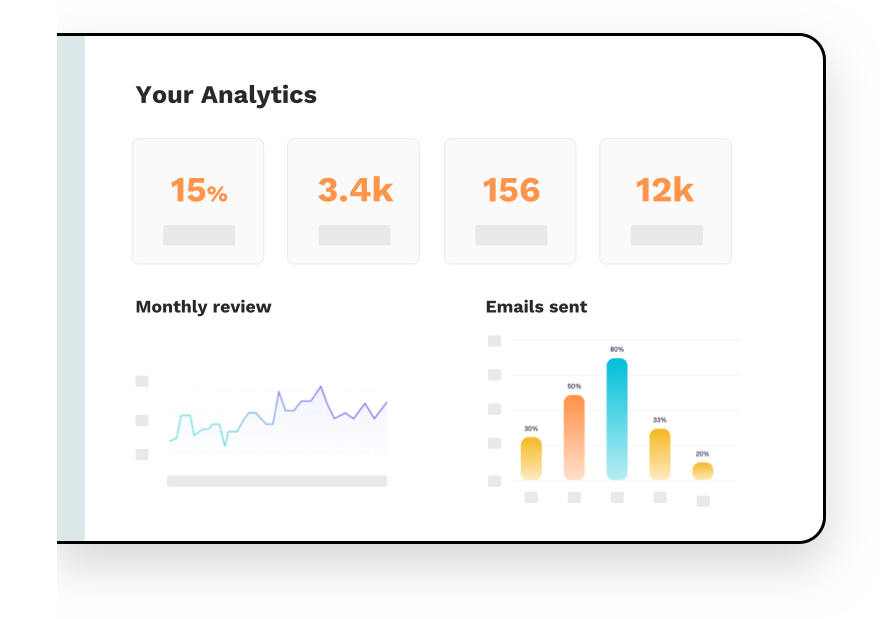
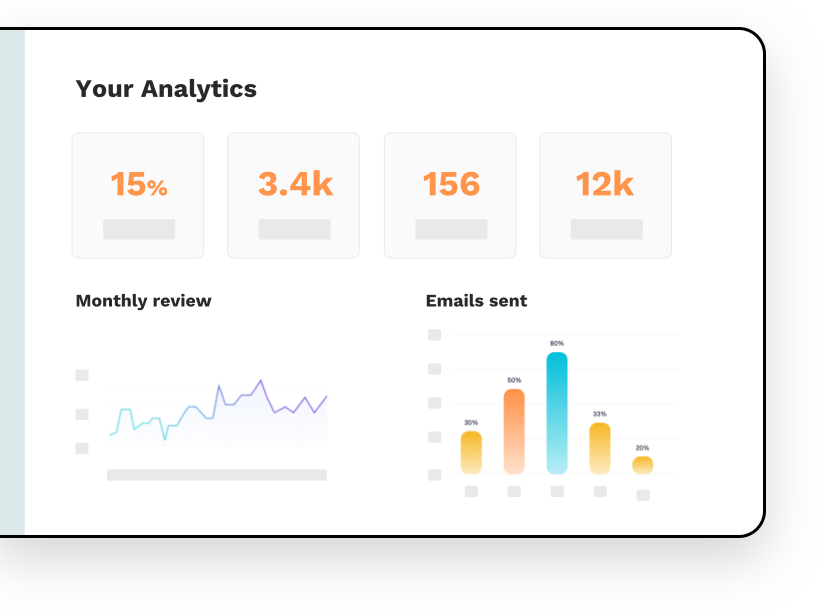
change sass

diff --git a/app/css/app.min.css b/app/css/app.min.css
@@ -1,1 +1,1 @@
-body,figure,h1,h2,h3,h4,h5,h6,li,p,ul{margin:0;padding:0}*{-webkit-box-sizing:border-box;box-sizing:border-box}ul{list-style-type:none}a,a:active,a:focus,a:hover,a:visited{text-decoration:none}html{-webkit-font-smoothing:subpixel-antialiased;-moz-osx-font-smoothing:grayscale;font-size:16px}body{margin-top:80px}button{background:0 0;padding:0}.container{width:95%;max-width:1920px;margin:0 auto}.btn{height:48px;display:-webkit-inline-box;display:-ms-inline-flexbox;display:inline-flex;-webkit-box-align:center;-ms-flex-align:center;align-items:center;-webkit-box-pack:center;-ms-flex-pack:center;justify-content:center;font-weight:600;border-radius:12px;font-family:'Work Sans',sans-serif;border:none}.btn.black{background-color:#292929;color:#fff}.btn.white{background-color:#fff;color:#3f55ff}.btn.blue{background-color:#3d49e9;color:#fff}.btn.default{padding:0 47px}.btn.signup{padding:0 60px}.hide{display:none}.show{display:block}.show-flex{display:-webkit-box;display:-ms-flexbox;display:flex}.d-flex{display:-webkit-box;display:-ms-flexbox;display:flex}.fd-c{-webkit-box-orient:vertical;-webkit-box-direction:normal;-ms-flex-direction:column;flex-direction:column}.jc-c{-webkit-box-pack:center;-ms-flex-pack:center;justify-content:center}.ai-c{-webkit-box-align:center;-ms-flex-align:center;align-items:center}.ws{font-family:'Work Sans',sans-serif}.geo{font-family:Georgia,Times,"Times New Roman",serif}.fz60{font-size:60px}.fz50{font-size:50px}.fz45{font-size:45px}.fz36{font-size:36px}.fz37{font-size:37px}.fz32{font-size:32px}.fz24{font-size:24px}.fz20{font-size:20px}.fz18{font-size:18px}.fz16{font-size:16px}.fz15{font-size:15px}.fz14{font-size:14px}.fz12{font-size:12px}.fw300{font-weight:300}.fw500{font-weight:500}.fw600{font-weight:600}.fwb{font-weight:700}.c-white{color:#fff}.c-black{color:#000}.c-black100{color:#292929}.c-gray{color:#fafafa}.c-gray100{color:#888}.c-gray200{color:#ccc}.c-blue100{color:#3f55ff}.c-blue200{color:#3c49e8}.c-blue300{color:#ebeefe}.c-blue400{color:#3d49e9}.bg-white{background-color:#fff}.bg-black{background-color:#000}.bg-black100{background-color:#292929}.bg-gray{background-color:#fafafa}.bg-gray100{background-color:#888}.bg-gray200{background-color:#ccc}.bg-gray300{background-color:#f2f6fd}.bg-blue100{background-color:#3f55ff}.bg-blue200{background-color:#3c49e8}.bg-blue300{background-color:#ebeefe}.header{position:fixed;top:0;left:0;z-index:10;width:100%;-webkit-transition:all .2s ease;-o-transition:all .2s ease;transition:all .2s ease}.header.with-bg{background-color:#fff;-webkit-box-shadow:0 2px 5px 0 rgba(0,0,0,.1);box-shadow:0 2px 5px 0 rgba(0,0,0,.1)}.header .header-container{display:-webkit-box;display:-ms-flexbox;display:flex;-webkit-box-align:center;-ms-flex-align:center;align-items:center;padding:0 60px;height:100px;margin:0 auto}.header .header-nav{text-align:center;margin-left:auto}.header .header-nav .nav-ul{display:-webkit-box;display:-ms-flexbox;display:flex}.header .header-nav .nav-li{text-transform:uppercase;margin-right:50px;cursor:pointer}.header .mobile-login,.header .mobile-nav{display:none}.header .mobile-nav{text-transform:uppercase}.header .header-login{border-left:1px solid #ccc}.header .header-login .login{padding:0 73px 0 50px}.header .burger{border:none;display:none}.header .burger div{border:none;height:1px;width:18px;margin:5px;background-color:#292929}.header .closed{display:none}.header .mobile-menu{display:none}@media screen and (max-width:1100px){.header .header-container{height:80px;padding:0 24px 0 16px}.header .header-nav{display:none}.header .header-login{display:none}.header .mobile-login,.header .mobile-nav{display:block}.header .mobile-login{margin-left:24px}.header .mobile-nav{margin-left:auto}.header .burger{display:block;margin-right:16px}.mobile-menu{height:100vh;overflow:hideen;width:100%;background-image:-webkit-gradient(linear,left top,left bottom,from(#bc85ff),color-stop(#a574fe),color-stop(#8964fe),color-stop(#6456fe),to(#1f49ff));background-image:-o-linear-gradient(top,#bc85ff,#a574fe,#8964fe,#6456fe,#1f49ff);background-image:linear-gradient(to bottom,#bc85ff,#a574fe,#8964fe,#6456fe,#1f49ff);position:fixed;top:0;left:0}.mobile-menu .mobile-menu-wrapper{text-align:center;padding:105px 0 140px 0}.mobile-menu .mobile-li-open:not(:last-child){margin-bottom:51px}.mobile-menu .mobile-login-open{display:-webkit-box;display:-ms-flexbox;display:flex;-webkit-box-orient:vertical;-webkit-box-direction:normal;-ms-flex-direction:column;flex-direction:column;-webkit-box-align:center;-ms-flex-align:center;align-items:center}.mobile-menu .signup{width:100%;max-width:300px;margin-bottom:14px;margin-top:140px}.mobile-menu .mobile-close{display:-webkit-box;display:-ms-flexbox;display:flex;-webkit-box-align:center;-ms-flex-align:center;align-items:center;height:80px;padding:0 0 0 21px}.mobile-menu .mobile-button-close{font-size:22px;margin-right:21px}}.footer{width:100%;padding:30px 0 80px 0}.footer .container{width:90%;margin:0 auto}.footer .footer-top{display:-webkit-box;display:-ms-flexbox;display:flex;-webkit-box-pack:justify;-ms-flex-pack:justify;justify-content:space-between;padding:0 0 68px 0}.footer .footer-top .footer-left-content{max-width:505px}.footer .footer-top .footer-descr{padding:30px 0 39px 0}.footer .footer-top .address{font-style:normal}.footer .footer-top .footer-nav-ul{display:-webkit-box;display:-ms-flexbox;display:flex;-webkit-box-pack:end;-ms-flex-pack:end;justify-content:flex-end;-webkit-box-align:center;-ms-flex-align:center;align-items:center;margin-bottom:30px;gap:30px;min-height:42px}.footer .footer-top .reviews-wrapper{display:-webkit-box;display:-ms-flexbox;display:flex;-webkit-box-align:center;-ms-flex-align:center;align-items:center;-webkit-box-pack:end;-ms-flex-pack:end;justify-content:flex-end}.footer .footer-top .reviews-p{padding-right:8px}.footer .footer-top .reviews-ul{display:-webkit-box;display:-ms-flexbox;display:flex;-webkit-box-pack:end;-ms-flex-pack:end;justify-content:flex-end;-webkit-box-align:center;-ms-flex-align:center;align-items:center;gap:20px}.footer .footer-top .reviews-logo{height:24px}.footer .footer-bottom{display:-webkit-box;display:-ms-flexbox;display:flex;-webkit-box-pack:justify;-ms-flex-pack:justify;justify-content:space-between;-webkit-box-align:center;-ms-flex-align:center;align-items:center}.footer .footer-bottom .terms-social-wrapper{display:-webkit-box;display:-ms-flexbox;display:flex;-webkit-box-align:center;-ms-flex-align:center;align-items:center}.footer .footer-bottom .social-ul{display:-webkit-box;display:-ms-flexbox;display:flex;-webkit-box-align:center;-ms-flex-align:center;align-items:center;gap:40px}.footer .footer-bottom .social-li{cursor:pointer}@media screen and (max-width:1440px){.footer .footer-top .footer-descr{padding:30px 0 25px 0}.footer .footer-bottom .terms-social-wrapper{gap:20px}}@media screen and (max-width:1100px){.footer .footer-top{-webkit-box-orient:vertical;-webkit-box-direction:normal;-ms-flex-direction:column;flex-direction:column;-webkit-box-align:center;-ms-flex-align:center;align-items:center;padding-bottom:0}.footer .footer-top .footer-left-content{width:100%}.footer .footer-top .footer-descr{padding:17px 0 27px 0}.footer .footer-top .footer-right-content{width:100%;padding:55px 0 0 0}.footer .footer-top .footer-right-content .footer-nav-ul{-webkit-box-pack:center;-ms-flex-pack:center;justify-content:center;margin-bottom:0}.footer .footer-top .footer-right-content .footer-nav-li:first-child{margin-left:0}.footer .footer-top .footer-right-content .reviews-wrapper{-webkit-box-orient:vertical;-webkit-box-direction:normal;-ms-flex-direction:column;flex-direction:column;margin-top:60px}.footer .footer-top .footer-right-content .reviews-p{width:100%;text-align:center;margin:0;margin-bottom:22px}.footer .footer-top .footer-right-content .reviews-ul{-ms-flex-wrap:wrap;flex-wrap:wrap;-webkit-box-pack:center;-ms-flex-pack:center;justify-content:center;padding:0 0 60px 0}.footer .footer-bottom{-webkit-box-orient:vertical;-webkit-box-direction:reverse;-ms-flex-direction:column-reverse;flex-direction:column-reverse;padding-bottom:22px}.footer .footer-bottom .terms-social-wrapper{-webkit-box-orient:vertical;-webkit-box-direction:reverse;-ms-flex-direction:column-reverse;flex-direction:column-reverse}.footer .footer-bottom .social-links{text-align:center}.footer .footer-bottom .social-ul{margin-bottom:43px}}.pricing{padding:37px 0 150px 0}.pricing .container{text-align:center;margin:0 auto}.pricing .pricing-title{margin-bottom:11px}.pricing .enter-term{display:-webkit-box;display:-ms-flexbox;display:flex;-webkit-box-pack:center;-ms-flex-pack:center;justify-content:center;-webkit-box-align:center;-ms-flex-align:center;align-items:center;margin:0 auto;padding:73px 0 50px 0;gap:30px}.pricing .enter-term .switcher{width:96px;height:50px;border-radius:25px;border:none;padding:0 4px;background-image:-webkit-gradient(linear,right top,left bottom,from(#bc85ff),color-stop(#a574fe),color-stop(#8964fe),color-stop(#6456fe),to(#1f49ff));background-image:-o-linear-gradient(right top,#bc85ff,#a574fe,#8964fe,#6456fe,#1f49ff);background-image:linear-gradient(to left bottom,#bc85ff,#a574fe,#8964fe,#6456fe,#1f49ff)}.pricing .enter-term .switcher.active .circle{-webkit-transform:translateX(28px);-ms-transform:translateX(28px);transform:translateX(28px)}.pricing .enter-term .circle{width:38px;height:38px;border-radius:50%;background-color:#fff;-webkit-transition:all .2s linear;-o-transition:all .2s linear;transition:all .2s linear}.pricing .enter-term .monthly{display:-webkit-box;display:-ms-flexbox;display:flex;-webkit-box-pack:end;-ms-flex-pack:end;justify-content:flex-end;-webkit-box-align:center;-ms-flex-align:center;align-items:center}.pricing .enter-term .monthly .term{margin-right:31px}.pricing .enter-term .yearly{display:-webkit-box;display:-ms-flexbox;display:flex;-webkit-box-pack:start;-ms-flex-pack:start;justify-content:flex-start;-webkit-box-align:center;-ms-flex-align:center;align-items:center}.pricing .enter-term .yearly .term{margin-right:19px}.pricing .enter-term .sale{padding:15px}.pricing .pricing-cards .container{display:-webkit-box;display:-ms-flexbox;display:flex;-webkit-box-pack:center;-ms-flex-pack:center;justify-content:center;gap:29px}.pricing .pricing-cards .pricing-card{width:32%;max-width:372px;border-radius:24px;padding:50px 0 45px 0}.pricing .pricing-cards .with-bg{background-image:-webkit-gradient(linear,right top,left bottom,from(#bc85ff),color-stop(#a574fe),color-stop(#8964fe),color-stop(#6456fe),to(#1f49ff));background-image:-o-linear-gradient(right top,#bc85ff,#a574fe,#8964fe,#6456fe,#1f49ff);background-image:linear-gradient(to left bottom,#bc85ff,#a574fe,#8964fe,#6456fe,#1f49ff)}.pricing .pricing-cards .with-bg .card-descr,.pricing .pricing-cards .with-bg .card-price,.pricing .pricing-cards .with-bg .card-subtitle,.pricing .pricing-cards .with-bg .card-title{color:#fff}.pricing .pricing-cards .with-bg .card-free-btn{color:#3d49e9;background-color:#fff;cursor:pointer}.pricing .pricing-cards .card-free-btn{width:100%;max-width:252px;line-height:1.2;cursor:pointer;margin-bottom:33px}.pricing .pricing-cards .card-descr{margin:0 auto;line-height:1.6;width:200px}.pricing .pricing-cards .line-height-19{line-height:1.2;margin-bottom:30px}.pricing .pricing-cards .line-through{text-decoration:line-through}.pricing .pricing-cards .card-price{padding:16px 0 32px 0}.pricing .pricing-cards .card-subtitle{padding-bottom:14px}.sign-up{padding-bottom:301px;width:100%}.sign-up .sign-up-title{text-align:center;margin-bottom:35px}.sign-up .sign-up-subtitle{text-align:center;margin-bottom:28px}.sign-up .container{margin:0 auto;max-width:1276px}.sign-up .input-btn-wrapper{width:100%;max-width:372px;margin:0 auto}.sign-up .email-input{width:100%;display:block;border:1px solid #ccc;margin:0 auto;padding:0 16px}.sign-up .email-input::-webkit-input-placeholder{font-size:16px;color:#888;font-weight:400}.sign-up .email-input::-moz-placeholder{font-size:16px;color:#888;font-weight:400}.sign-up .email-input:-ms-input-placeholder{font-size:16px;color:#888;font-weight:400}.sign-up .email-input::-ms-input-placeholder{font-size:16px;color:#888;font-weight:400}.sign-up .email-input::placeholder{font-size:16px;color:#888;font-weight:400}.sign-up .btn{width:100%;margin-top:16px}@media screen and (max-width:1440px){.pricing{padding:58px 0 223px 0}.pricing .pricing-title{font-size:36px;margin-bottom:16px}.pricing .pricing-subtitle{font-size:18px;font-weight:300}.pricing .enter-term{padding:83px 0 62px 0;gap:35px}.pricing .enter-term .switcher{width:56px;height:28px}.pricing .enter-term .circle{width:22px;height:22px}.pricing .monthly .term{margin-right:35px}.sign-up{padding-bottom:173px}.sign-up .sign-up-title{font-size:36px;margin-bottom:43px}.sign-up .sign-up-subtitle{font-size:18px}}@media screen and (max-width:992px){.pricing{padding:47px 0 117px 0}.container{width:100%;padding:0 24px}.container .pricing-title{font-size:30px;margin-bottom:33px}.container .pricing-subtitle{font-size:16px}.container .enter-term{-webkit-box-align:baseline;-ms-flex-align:baseline;align-items:baseline;padding:40px 0 30px 0;gap:24px}.container .enter-term .switcher{width:96px;height:50px}.container .enter-term .circle{width:38px;height:38px}.container .enter-term .monthly .term{margin-right:24px}.container .enter-term .yearly{-webkit-box-orient:vertical;-webkit-box-direction:normal;-ms-flex-direction:column;flex-direction:column}.container .enter-term .yearly .term{margin:0 0 16px 0}.container .pricing-cards .container{width:100%;display:-webkit-box;display:-ms-flexbox;display:flex;-webkit-box-align:center;-ms-flex-align:center;align-items:center;-webkit-box-orient:vertical;-webkit-box-direction:normal;-ms-flex-direction:column;flex-direction:column;gap:24px}.container .pricing-cards .container .pricing-card{width:100%;width:327px;padding:45px 0 32px 0}.container .pricing-cards .container .pricing-card .card-free-btn{max-width:221px}.sign-up{padding-bottom:80px}.sign-up .sign-up-title{font-size:30px;margin-bottom:35px}.sign-up .sign-up-subtitle{font-size:16px}.sign-up .input-btn-wrapper{max-width:300px}}.products{padding:48px 0 18px 0;width:100%}.products .container{margin:0 auto;text-align:center;max-width:828px}.products .products-title{margin-bottom:27px}.analytics{padding:98px 0;display:-webkit-box;display:-ms-flexbox;display:flex;-webkit-box-pack:start;-ms-flex-pack:start;justify-content:flex-start;-webkit-box-align:center;-ms-flex-align:center;align-items:center}.analytics .success{margin-left:220px;max-width:611px}.analytics .success-reports{padding:31px 0 36px 0}.analytics .success-reports .success-report:not(:last-child){margin-bottom:32px}.analytics .success-report{position:relative;padding-left:28px}.analytics .success-report:before{content:url(../../images/icon-done.svg);display:inline-block;position:absolute;top:2px;left:0}.product-sign-up{padding:100px 0 150px 0}.product-sign-up .sign-up-card{text-align:center;padding:68px 0 62px 0;background-image:-webkit-gradient(linear,right top,left top,from(#bc85ff),color-stop(#a574fe),color-stop(#8964fe),color-stop(#6456fe),to(#1f49ff));background-image:-o-linear-gradient(right,#bc85ff,#a574fe,#8964fe,#6456fe,#1f49ff);background-image:linear-gradient(to left,#bc85ff,#a574fe,#8964fe,#6456fe,#1f49ff);margin:0 auto;max-width:1172px;border-radius:24px}.product-sign-up .sign-up-title{max-width:792px;margin:0 auto}.product-sign-up .product-start-free{margin-top:42px}@media screen and (max-width:1600px){.products{padding:58px 0 34px 0}.products .products-title{font-size:36px}.products .products-subtitle{font-size:18px}.analytics{padding:110px 0 130px 0}.analytics .success{max-width:500px;margin-left:100px}.analytics .success .success-title{font-size:36px}.analytics .success .success-descr{font-size:18px}.analytics .analytics-review{max-width:612px}}@media screen and (max-width:1190px){.products{padding:47px 0 44px 0}.products .products-title{font-size:30px;margin-bottom:33px}.products .products-subtitle{font-size:16px}.analytics{padding:40px 0 65px 0;-webkit-box-orient:vertical;-webkit-box-direction:normal;-ms-flex-direction:column;flex-direction:column;-webkit-box-align:start;-ms-flex-align:start;align-items:flex-start}.analytics .analytics-review{margin-bottom:22px;width:95%}.analytics .success{margin:0 auto;padding:0 27px 0 27px}.analytics .success-title{font-size:30px}.analytics .success-report{font-size:20px}.analytics .success-descr{font-size:16px}.product-sign-up{padding:36px 0 80px 0}.product-sign-up .sign-up-title{font-size:24px}}
+body,figure,h1,h2,h3,h4,h5,h6,li,p,ul{margin:0;padding:0}*{-webkit-box-sizing:border-box;box-sizing:border-box}ul{list-style-type:none}a,a:active,a:focus,a:hover,a:visited{text-decoration:none}html{-webkit-font-smoothing:subpixel-antialiased;-moz-osx-font-smoothing:grayscale;font-size:16px}body{margin-top:80px}button{background:0 0;padding:0}.container{width:95%;max-width:1920px;margin:0 auto}.btn{height:48px;display:-webkit-inline-box;display:-ms-inline-flexbox;display:inline-flex;-webkit-box-align:center;-ms-flex-align:center;align-items:center;-webkit-box-pack:center;-ms-flex-pack:center;justify-content:center;font-weight:600;border-radius:12px;font-family:'Work Sans',sans-serif;border:none}.btn.black{background-color:#292929;color:#fff}.btn.white{background-color:#fff;color:#3f55ff}.btn.blue{background-color:#3d49e9;color:#fff}.btn.default{padding:0 47px}.btn.signup{padding:0 60px}.hide{display:none}.show{display:block}.show-flex{display:-webkit-box;display:-ms-flexbox;display:flex}.d-flex{display:-webkit-box;display:-ms-flexbox;display:flex}.fd-c{-webkit-box-orient:vertical;-webkit-box-direction:normal;-ms-flex-direction:column;flex-direction:column}.jc-c{-webkit-box-pack:center;-ms-flex-pack:center;justify-content:center}.ai-c{-webkit-box-align:center;-ms-flex-align:center;align-items:center}.ws{font-family:'Work Sans',sans-serif}.geo{font-family:Georgia,Times,"Times New Roman",serif}.fz60{font-size:60px}.fz50{font-size:50px}.fz45{font-size:45px}.fz36{font-size:36px}.fz37{font-size:37px}.fz32{font-size:32px}.fz24{font-size:24px}.fz20{font-size:20px}.fz18{font-size:18px}.fz16{font-size:16px}.fz15{font-size:15px}.fz14{font-size:14px}.fz12{font-size:12px}.fw300{font-weight:300}.fw500{font-weight:500}.fw600{font-weight:600}.fwb{font-weight:700}.c-white{color:#fff}.c-black{color:#000}.c-black100{color:#292929}.c-gray{color:#fafafa}.c-gray100{color:#888}.c-gray200{color:#ccc}.c-blue100{color:#3f55ff}.c-blue200{color:#3c49e8}.c-blue300{color:#ebeefe}.c-blue400{color:#3d49e9}.bg-white{background-color:#fff}.bg-black{background-color:#000}.bg-black100{background-color:#292929}.bg-gray{background-color:#fafafa}.bg-gray100{background-color:#888}.bg-gray200{background-color:#ccc}.bg-gray300{background-color:#f2f6fd}.bg-blue100{background-color:#3f55ff}.bg-blue200{background-color:#3c49e8}.bg-blue300{background-color:#ebeefe}.header{position:fixed;top:0;left:0;z-index:10;width:100%;-webkit-transition:all .2s ease;-o-transition:all .2s ease;transition:all .2s ease}.header.with-bg{background-color:#fff;-webkit-box-shadow:0 2px 5px 0 rgba(0,0,0,.1);box-shadow:0 2px 5px 0 rgba(0,0,0,.1)}.header .header-container{display:-webkit-box;display:-ms-flexbox;display:flex;-webkit-box-align:center;-ms-flex-align:center;align-items:center;padding:0 60px;height:100px;margin:0 auto}.header .header-nav{text-align:center;margin-left:auto}.header .header-nav .nav-ul{display:-webkit-box;display:-ms-flexbox;display:flex}.header .header-nav .nav-li{text-transform:uppercase;margin-right:50px;cursor:pointer}.header .mobile-login,.header .mobile-nav{display:none}.header .mobile-nav{text-transform:uppercase}.header .header-login{border-left:1px solid #ccc}.header .header-login .login{padding:0 73px 0 50px}.header .burger{border:none;display:none}.header .burger div{border:none;height:1px;width:18px;margin:5px;background-color:#292929}.header .closed{display:none}.header .mobile-menu{display:none}@media screen and (max-width:1100px){.header .header-container{height:80px;padding:0 24px 0 16px}.header .header-nav{display:none}.header .header-login{display:none}.header .mobile-login,.header .mobile-nav{display:block}.header .mobile-login{margin-left:24px}.header .mobile-nav{margin-left:auto}.header .burger{display:block;margin-right:16px}.mobile-menu{height:100vh;overflow:hideen;width:100%;background-image:-webkit-gradient(linear,left top,left bottom,from(#bc85ff),color-stop(#a574fe),color-stop(#8964fe),color-stop(#6456fe),to(#1f49ff));background-image:-o-linear-gradient(top,#bc85ff,#a574fe,#8964fe,#6456fe,#1f49ff);background-image:linear-gradient(to bottom,#bc85ff,#a574fe,#8964fe,#6456fe,#1f49ff);position:fixed;top:0;left:0}.mobile-menu .mobile-menu-wrapper{text-align:center;padding:105px 0 140px 0}.mobile-menu .mobile-li-open:not(:last-child){margin-bottom:51px}.mobile-menu .mobile-login-open{display:-webkit-box;display:-ms-flexbox;display:flex;-webkit-box-orient:vertical;-webkit-box-direction:normal;-ms-flex-direction:column;flex-direction:column;-webkit-box-align:center;-ms-flex-align:center;align-items:center}.mobile-menu .signup{width:100%;max-width:300px;margin-bottom:14px;margin-top:140px}.mobile-menu .mobile-close{display:-webkit-box;display:-ms-flexbox;display:flex;-webkit-box-align:center;-ms-flex-align:center;align-items:center;height:80px;padding:0 0 0 21px}.mobile-menu .mobile-button-close{font-size:22px;margin-right:21px}}.footer{width:100%;padding:30px 0 80px 0}.footer .container{width:90%;margin:0 auto}.footer .footer-top{display:-webkit-box;display:-ms-flexbox;display:flex;-webkit-box-pack:justify;-ms-flex-pack:justify;justify-content:space-between;padding:0 0 68px 0}.footer .footer-top .footer-left-content{max-width:505px}.footer .footer-top .footer-descr{padding:30px 0 39px 0}.footer .footer-top .address{font-style:normal}.footer .footer-top .footer-nav-ul{display:-webkit-box;display:-ms-flexbox;display:flex;-webkit-box-pack:end;-ms-flex-pack:end;justify-content:flex-end;-webkit-box-align:center;-ms-flex-align:center;align-items:center;margin-bottom:30px;gap:30px;min-height:42px}.footer .footer-top .reviews-wrapper{display:-webkit-box;display:-ms-flexbox;display:flex;-webkit-box-align:center;-ms-flex-align:center;align-items:center;-webkit-box-pack:end;-ms-flex-pack:end;justify-content:flex-end}.footer .footer-top .reviews-p{padding-right:8px}.footer .footer-top .reviews-ul{display:-webkit-box;display:-ms-flexbox;display:flex;-webkit-box-pack:end;-ms-flex-pack:end;justify-content:flex-end;-webkit-box-align:center;-ms-flex-align:center;align-items:center;gap:20px}.footer .footer-top .reviews-logo{height:24px}.footer .footer-bottom{display:-webkit-box;display:-ms-flexbox;display:flex;-webkit-box-pack:justify;-ms-flex-pack:justify;justify-content:space-between;-webkit-box-align:center;-ms-flex-align:center;align-items:center}.footer .footer-bottom .terms-social-wrapper{display:-webkit-box;display:-ms-flexbox;display:flex;-webkit-box-align:center;-ms-flex-align:center;align-items:center}.footer .footer-bottom .terms-ul{display:-webkit-box;display:-ms-flexbox;display:flex;-webkit-box-align:center;-ms-flex-align:center;align-items:center;gap:36px;margin-right:70px}.footer .footer-bottom .terms-link{text-decoration:underline}.footer .footer-bottom .social-ul{display:-webkit-box;display:-ms-flexbox;display:flex;-webkit-box-align:center;-ms-flex-align:center;align-items:center;gap:40px}.footer .footer-bottom .social-li{cursor:pointer}@media screen and (max-width:1440px){.footer .footer-top .footer-descr{padding:30px 0 25px 0}.footer .footer-bottom .terms-social-wrapper{gap:20px}}@media screen and (max-width:1100px){.footer{padding:27px 0}.footer .container{width:100%}.footer .main-logo{background-color:#fff}.footer .footer-top{-webkit-box-orient:vertical;-webkit-box-direction:normal;-ms-flex-direction:column;flex-direction:column;-webkit-box-align:center;-ms-flex-align:center;align-items:center;padding-bottom:0}.footer .footer-top .footer-left-content{width:100%}.footer .footer-top .footer-descr{padding:17px 0 27px 0}.footer .footer-top .footer-right-content{width:100%;padding:55px 0 0 0}.footer .footer-top .footer-nav-ul{-webkit-box-pack:center;-ms-flex-pack:center;justify-content:center;margin-bottom:0}.footer .footer-top .footer-nav-li:first-child{margin-left:0}.footer .footer-top .reviews-wrapper{-webkit-box-orient:vertical;-webkit-box-direction:normal;-ms-flex-direction:column;flex-direction:column;margin-top:60px}.footer .footer-top .reviews-p{width:100%;text-align:center;margin:0;margin-bottom:22px}.footer .footer-top .reviews-ul{-ms-flex-wrap:wrap;flex-wrap:wrap;-webkit-box-pack:center;-ms-flex-pack:center;justify-content:center;padding:0 0 60px 0}.footer .footer-bottom{-webkit-box-orient:vertical;-webkit-box-direction:reverse;-ms-flex-direction:column-reverse;flex-direction:column-reverse}.footer .footer-bottom .terms-social-wrapper{-webkit-box-orient:vertical;-webkit-box-direction:reverse;-ms-flex-direction:column-reverse;flex-direction:column-reverse;gap:0}.footer .footer-bottom .terms-ul{margin-right:0;margin-bottom:70px}.footer .footer-bottom .social-links{text-align:center}.footer .footer-bottom .social-ul{margin-bottom:43px}}.pricing{padding:37px 0 150px 0}.pricing .container{text-align:center;margin:0 auto}.pricing .pricing-title{margin-bottom:11px}.pricing .enter-term{display:-webkit-box;display:-ms-flexbox;display:flex;-webkit-box-pack:center;-ms-flex-pack:center;justify-content:center;-webkit-box-align:center;-ms-flex-align:center;align-items:center;margin:0 auto;padding:73px 0 50px 0;gap:30px}.pricing .enter-term .switcher{width:96px;height:50px;border-radius:25px;border:none;padding:0 4px;background-image:-webkit-gradient(linear,right top,left bottom,from(#bc85ff),color-stop(#a574fe),color-stop(#8964fe),color-stop(#6456fe),to(#1f49ff));background-image:-o-linear-gradient(right top,#bc85ff,#a574fe,#8964fe,#6456fe,#1f49ff);background-image:linear-gradient(to left bottom,#bc85ff,#a574fe,#8964fe,#6456fe,#1f49ff)}.pricing .enter-term .switcher.active .circle{-webkit-transform:translateX(28px);-ms-transform:translateX(28px);transform:translateX(28px)}.pricing .enter-term .circle{width:38px;height:38px;border-radius:50%;background-color:#fff;-webkit-transition:all .2s linear;-o-transition:all .2s linear;transition:all .2s linear}.pricing .enter-term .monthly{display:-webkit-box;display:-ms-flexbox;display:flex;-webkit-box-pack:end;-ms-flex-pack:end;justify-content:flex-end;-webkit-box-align:center;-ms-flex-align:center;align-items:center}.pricing .enter-term .monthly .term{margin-right:31px}.pricing .enter-term .yearly{display:-webkit-box;display:-ms-flexbox;display:flex;-webkit-box-pack:start;-ms-flex-pack:start;justify-content:flex-start;-webkit-box-align:center;-ms-flex-align:center;align-items:center}.pricing .enter-term .yearly .term{margin-right:19px}.pricing .enter-term .sale{padding:15px}.pricing .pricing-cards .container{display:-webkit-box;display:-ms-flexbox;display:flex;-webkit-box-pack:center;-ms-flex-pack:center;justify-content:center;gap:29px}.pricing .pricing-cards .pricing-card{width:32%;max-width:372px;border-radius:24px;padding:50px 0 45px 0}.pricing .pricing-cards .with-bg{background-image:-webkit-gradient(linear,right top,left bottom,from(#bc85ff),color-stop(#a574fe),color-stop(#8964fe),color-stop(#6456fe),to(#1f49ff));background-image:-o-linear-gradient(right top,#bc85ff,#a574fe,#8964fe,#6456fe,#1f49ff);background-image:linear-gradient(to left bottom,#bc85ff,#a574fe,#8964fe,#6456fe,#1f49ff)}.pricing .pricing-cards .with-bg .card-descr,.pricing .pricing-cards .with-bg .card-price,.pricing .pricing-cards .with-bg .card-subtitle,.pricing .pricing-cards .with-bg .card-title{color:#fff}.pricing .pricing-cards .with-bg .card-free-btn{color:#3d49e9;background-color:#fff;cursor:pointer}.pricing .pricing-cards .card-free-btn{width:100%;max-width:252px;line-height:1.2;cursor:pointer;margin-bottom:33px}.pricing .pricing-cards .card-descr{margin:0 auto;line-height:1.6;width:200px}.pricing .pricing-cards .line-height-19{line-height:1.2;margin-bottom:30px}.pricing .pricing-cards .line-through{text-decoration:line-through}.pricing .pricing-cards .card-price{padding:16px 0 32px 0}.pricing .pricing-cards .card-subtitle{padding-bottom:14px}.sign-up{padding-bottom:301px;width:100%}.sign-up .sign-up-title{text-align:center;margin-bottom:35px}.sign-up .sign-up-subtitle{text-align:center;margin-bottom:28px}.sign-up .container{margin:0 auto;max-width:1276px}.sign-up .input-btn-wrapper{width:100%;max-width:372px;margin:0 auto}.sign-up .email-input{width:100%;display:block;border:1px solid #ccc;margin:0 auto;padding:0 16px}.sign-up .email-input::-webkit-input-placeholder{font-size:16px;color:#888;font-weight:400}.sign-up .email-input::-moz-placeholder{font-size:16px;color:#888;font-weight:400}.sign-up .email-input:-ms-input-placeholder{font-size:16px;color:#888;font-weight:400}.sign-up .email-input::-ms-input-placeholder{font-size:16px;color:#888;font-weight:400}.sign-up .email-input::placeholder{font-size:16px;color:#888;font-weight:400}.sign-up .btn{width:100%;margin-top:16px}@media screen and (max-width:1440px){.pricing{padding:58px 0 223px 0}.pricing .pricing-title{font-size:36px;margin-bottom:16px}.pricing .pricing-subtitle{font-size:18px;font-weight:300}.pricing .enter-term{padding:83px 0 62px 0;gap:35px}.pricing .enter-term .switcher{width:56px;height:28px}.pricing .enter-term .circle{width:22px;height:22px}.pricing .monthly .term{margin-right:35px}.sign-up{padding-bottom:173px}.sign-up .sign-up-title{font-size:36px;margin-bottom:43px}.sign-up .sign-up-subtitle{font-size:18px}}@media screen and (max-width:992px){.pricing{padding:47px 0 117px 0}.container{width:100%;padding:0 24px}.container .pricing-title{font-size:30px;margin-bottom:33px}.container .pricing-subtitle{font-size:16px}.container .enter-term{-webkit-box-align:baseline;-ms-flex-align:baseline;align-items:baseline;padding:40px 0 30px 0;gap:24px}.container .enter-term .switcher{width:96px;height:50px}.container .enter-term .circle{width:38px;height:38px}.container .enter-term .monthly .term{margin-right:24px}.container .enter-term .yearly{-webkit-box-orient:vertical;-webkit-box-direction:normal;-ms-flex-direction:column;flex-direction:column}.container .enter-term .yearly .term{margin:0 0 16px 0}.container .pricing-cards .container{width:100%;display:-webkit-box;display:-ms-flexbox;display:flex;-webkit-box-align:center;-ms-flex-align:center;align-items:center;-webkit-box-orient:vertical;-webkit-box-direction:normal;-ms-flex-direction:column;flex-direction:column;gap:24px}.container .pricing-cards .container .pricing-card{width:100%;width:327px;padding:45px 0 32px 0}.container .pricing-cards .container .pricing-card .card-free-btn{max-width:221px}.sign-up{padding-bottom:80px}.sign-up .sign-up-title{font-size:30px;margin-bottom:35px}.sign-up .sign-up-subtitle{font-size:16px}.sign-up .input-btn-wrapper{max-width:300px}}.products{padding:48px 0 18px 0;width:100%}.products .container{margin:0 auto;text-align:center;max-width:828px}.products .products-title{margin-bottom:27px}.analytics{padding:78px 0 58px 0;display:-webkit-box;display:-ms-flexbox;display:flex;-webkit-box-pack:start;-ms-flex-pack:start;justify-content:flex-start;-webkit-box-align:center;-ms-flex-align:center;align-items:center}.analytics .success{margin-left:220px;max-width:611px}.analytics .success-reports{padding:31px 0 36px 0}.analytics .success-reports .success-report:not(:last-child){margin-bottom:32px}.analytics .success-report{position:relative;padding-left:28px}.analytics .success-report:before{content:url(../../images/icon-done.svg);display:inline-block;position:absolute;top:2px;left:0}.product-sign-up{padding:100px 0 150px 0}.product-sign-up .sign-up-card{text-align:center;padding:68px 0 62px 0;background-image:-webkit-gradient(linear,right top,left top,from(#bc85ff),color-stop(#a574fe),color-stop(#8964fe),color-stop(#6456fe),to(#1f49ff));background-image:-o-linear-gradient(right,#bc85ff,#a574fe,#8964fe,#6456fe,#1f49ff);background-image:linear-gradient(to left,#bc85ff,#a574fe,#8964fe,#6456fe,#1f49ff);margin:0 auto;max-width:1172px;border-radius:24px;-webkit-box-shadow:6px 8px 23px -1px rgba(0,0,0,.36);box-shadow:6px 8px 23px -1px rgba(0,0,0,.36)}.product-sign-up .sign-up-title{max-width:792px;margin:0 auto}.product-sign-up .product-start-free{margin-top:42px}@media screen and (max-width:1600px){.products{padding:58px 0 34px 0}.products .products-title{font-size:36px}.products .products-subtitle{font-size:18px}.analytics{padding:80px 0 60px 0}.analytics .success{max-width:500px;margin-left:100px}.analytics .success .success-title{font-size:36px}.analytics .success .success-descr{font-size:18px}.analytics .analytics-review{max-width:612px}}@media screen and (max-width:1190px){.products{padding:47px 0 44px 0}.products .products-title{font-size:30px;margin-bottom:33px}.products .products-subtitle{font-size:16px}.analytics{padding:25px 0 21px 0;-webkit-box-orient:vertical;-webkit-box-direction:normal;-ms-flex-direction:column;flex-direction:column;-webkit-box-align:start;-ms-flex-align:start;align-items:flex-start}.analytics .analytics-review{margin-bottom:22px;width:100%}.analytics .success{margin:0 auto;padding:0 24px}.analytics .success-title{font-size:30px}.analytics .success-report{font-size:20px}.analytics .success-descr{font-size:16px}.product-sign-up{padding:36px 0 80px 0}.product-sign-up .sign-up-card{padding:45px 24px 50px 24px}.product-sign-up .sign-up-title{font-size:24px}.product-sign-up .product-start-free{padding:0 50px}}

diff --git a/app/sass/partials/footer.sass b/app/sass/partials/footer.sass
@@ -41,6 +41,13 @@
         .terms-social-wrapper
             display: flex
             align-items: center
+        .terms-ul
+            display: flex
+            align-items: center
+            gap: 36px
+            margin-right: 70px
+        .terms-link
+            text-decoration: underline
         .social-ul
             display: flex
             align-items: center
@@ -59,6 +66,11 @@
 
 @media screen and ( max-width: 1100px )
     .footer
+        padding: 27px 0
+        .container
+            width: 100%
+        .main-logo
+            background-color: $white
         .footer-top
             flex-direction: column
             align-items: center
@@ -70,28 +82,31 @@
             .footer-right-content
                 width: 100%
                 padding: 55px 0 0 0
-                .footer-nav-ul
-                    justify-content: center
-                    margin-bottom: 0
-                .footer-nav-li:first-child
-                    margin-left: 0
-                .reviews-wrapper
-                    flex-direction: column
-                    margin-top: 60px
-                .reviews-p
-                    width: 100%
-                    text-align: center
-                    margin: 0
-                    margin-bottom: 22px
-                .reviews-ul
-                    flex-wrap: wrap
-                    justify-content: center
-                    padding: 0 0 60px 0
+            .footer-nav-ul
+                justify-content: center
+                margin-bottom: 0
+            .footer-nav-li:first-child
+                margin-left: 0
+            .reviews-wrapper
+                flex-direction: column
+                margin-top: 60px
+            .reviews-p
+                width: 100%
+                text-align: center
+                margin: 0
+                margin-bottom: 22px
+            .reviews-ul
+                flex-wrap: wrap
+                justify-content: center
+                padding: 0 0 60px 0
         .footer-bottom
             flex-direction: column-reverse
-            padding-bottom: 22px
             .terms-social-wrapper
                 flex-direction: column-reverse
+                gap: 0
+            .terms-ul
+                margin-right: 0
+                margin-bottom: 70px 
             .social-links
                 text-align: center
             .social-ul

diff --git a/app/product.html b/app/product.html
@@ -83,7 +83,7 @@
         </div>
     </section>
    <section class="analytics bg-gray">
-       <img src="./images/Xul/Homepage/analytics.png" alt="analytics review" class="analytics-review">
+       <img src="./images/yourAnalytics.png" alt="analytics review" class="analytics-review">
        <div class="success">
            <h3 class="success-title fz50 fwb geo c-black100">Measure Your Success</h3>
            <ul class="success-reports">
@@ -112,7 +112,9 @@
     <div class="container">
         <div class="footer-top">
             <div class="footer-left-content">
-                <a href="#" class="footer-logo fz37 c-white fwb">XUL</a>
+                <a href="#" class="footer-logo">
+                    <img src="./images/main-logo.svg" alt="Main Logo">
+                </a>
                 <p class="footer-descr fz12 c-white wd">
                     Funnel CRM is the all-in-one sales enablement platform that lets businesses
                      easily create and automate their lead generation engines. 
@@ -152,10 +154,10 @@
             <div class="terms-social-wrapper">
                 <ul class="terms-ul">
                     <li class="terms-li">
-                        <a href="#" class="terms-link">Terms of Service</a>
+                        <a href="#" class="terms-link c-white ws fz12">Terms of Service</a>
                     </li>
                     <li class="terms-li">
-                        <a href="#" class="terms-link">Privacy Policy</a>
+                        <a href="#" class="terms-link c-white ws fz12">Privacy Policy</a>
                     </li>
                 </ul>
 

diff --git a/app/sass/pages/product.sass b/app/sass/pages/product.sass
@@ -8,7 +8,7 @@
     .products-title
         margin-bottom: 27px
 .analytics
-    padding: 98px 0
+    padding: 78px 0 58px 0
     display: flex
     justify-content: flex-start
     align-items: center
@@ -37,6 +37,7 @@
         margin: 0 auto
         max-width: 1172px
         border-radius: 24px
+        box-shadow: 6px 8px 23px -1px rgba(0,0,0,0.36)
     .sign-up-title
         max-width: 792px
         margin: 0 auto
@@ -50,7 +51,7 @@
         .products-subtitle
             font-size: 18px
     .analytics
-        padding: 110px 0 130px 0
+        padding: 80px 0 60px 0
         .success
             max-width: 500px
             margin-left: 100px
@@ -69,15 +70,15 @@
         .products-subtitle
             font-size: 16px
     .analytics
-        padding: 40px 0 65px 0
+        padding: 25px 0 21px 0
         flex-direction: column
         align-items: flex-start
         .analytics-review
             margin-bottom: 22px
-            width: 95%
+            width: 100%
         .success
             margin: 0 auto
-            padding: 0 27px 0 27px
+            padding: 0 24px
         .success-title
             font-size: 30px
         .success-report
@@ -86,5 +87,11 @@
             font-size: 16px
     .product-sign-up
         padding: 36px 0 80px 0
+        .sign-up-card
+            padding: 45px 24px 50px 24px
         .sign-up-title
             font-size: 24px
+        .product-start-free
+            padding: 0 50px
+
+           

diff --git a/app/index.html b/app/index.html
@@ -21,7 +21,9 @@
                 <div class="line"></div>
                 <div class="line"></div>
             </button>
-            <a href="#" class="logo-link fz37 c-black100 fwb">XUL</a>
+            <a href="#" class="logo-link">
+                <img src="/app/images/main-logo.svg" alt="Main Logo">
+            </a>
             <nav class="header-nav">
                 <ul class="nav-ul">
                     <li class="nav-li">
